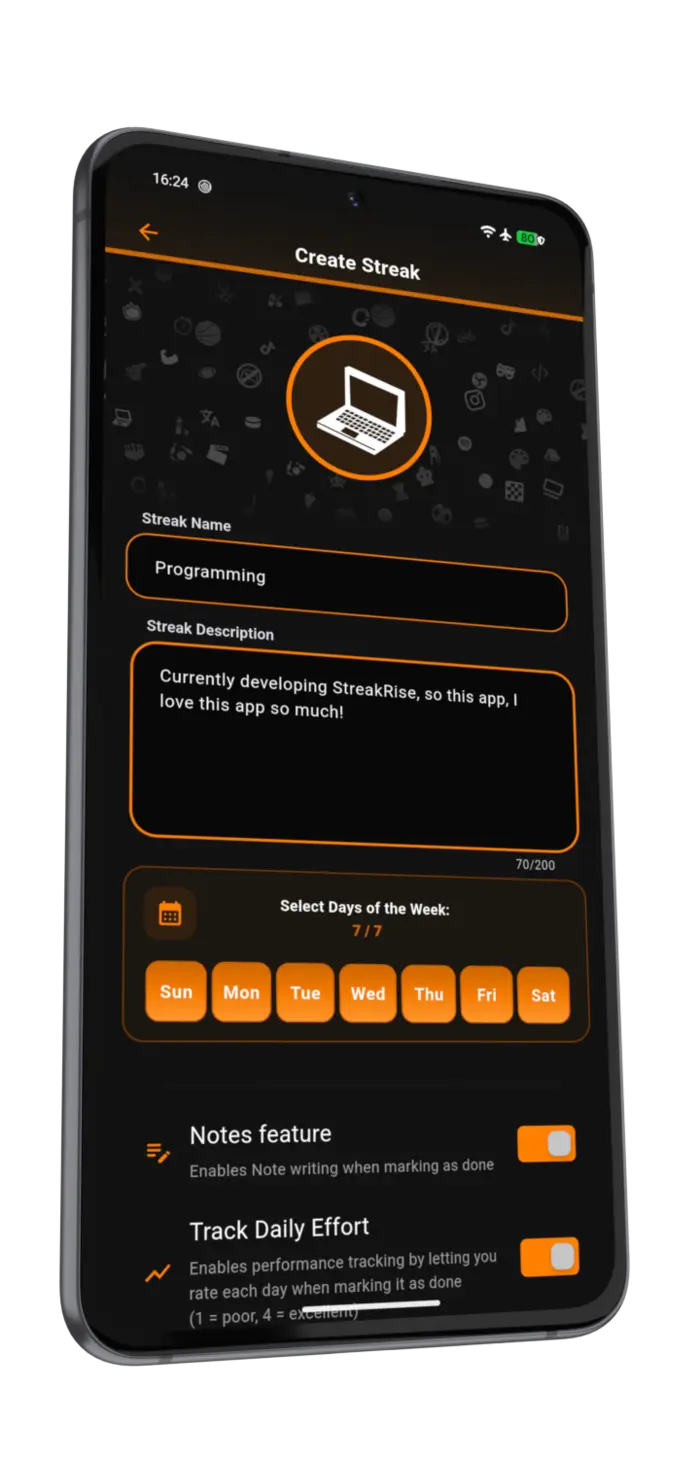
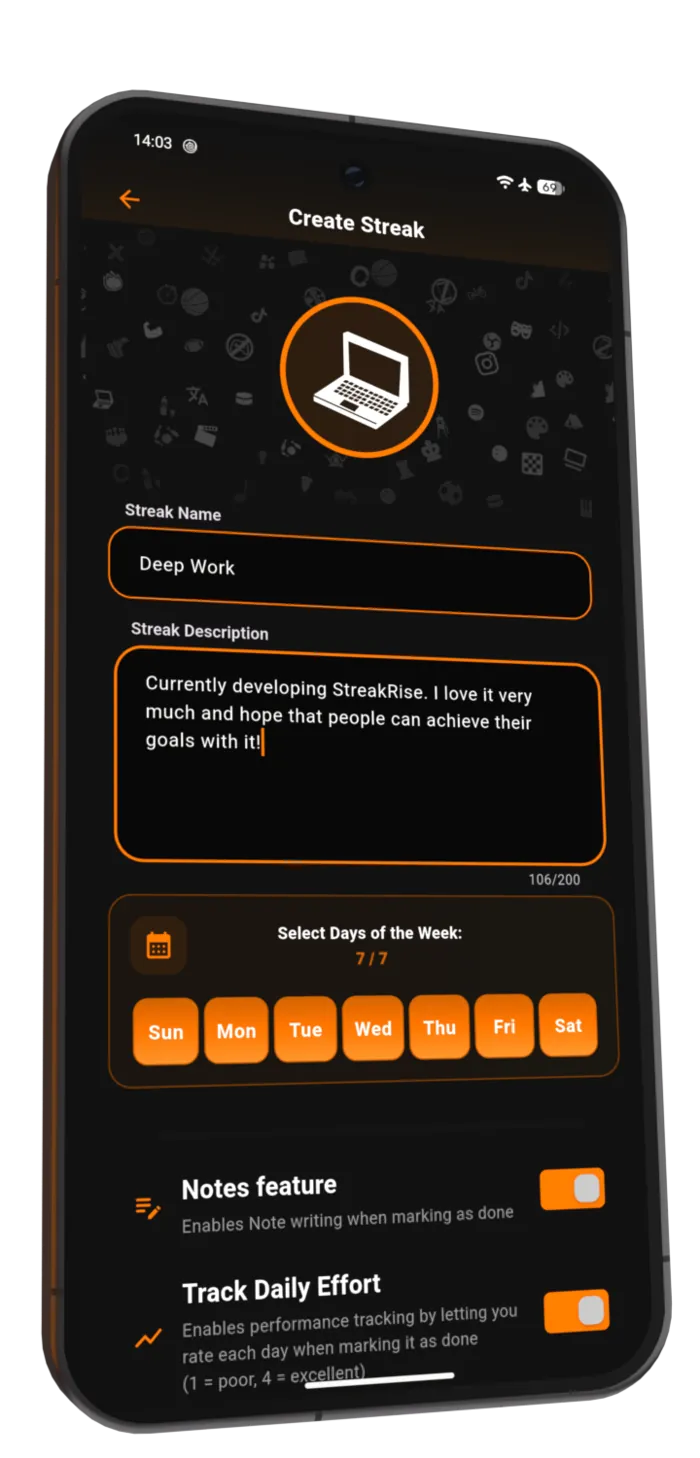
Added phone frame and updated images

diff --git a/streakrise-styles.css b/streakrise-styles.css
@@ -819,43 +819,102 @@ body {
     transform: scaleX(1);
 }
 
-.responsive-image-container {
-    text-align: center;
-    margin: 30px auto 0;
-    width: 100%;
-    opacity: 0;
-    transform: translateY(30px);
-    transition: opacity 0.9s ease-out, transform 0.9s ease-out;
-}
-
-.responsive-image-container.animate {
-    opacity: 1;
-    transform: translateY(0);
-}
-
-.responsive-image {
-    width: 100%;
-    max-width: 600px;
-    border-radius: 20px;
-    height: auto;
-    display: inline-block;
-    transition: transform 0.4s ease;
-}
-
-.responsive-image:hover,
-.themes-large:hover {
-    transform: scale(1.02);
-}
-
-.responsive-image-container video.responsive-image {
-    display: block;
-    width: auto;
-    height: auto;
-    max-width: 100%;
-    max-height: 60vh;
+.phone {
+    position: relative;
+    width: min(340px, calc(60vh * 0.48));
+    aspect-ratio: 720 / 1500;
     margin: 0 auto;
-    border-radius: 24px;
+    transition: transform 0.4s ease;
+    isolation: isolate;
 }
+
+.phone:hover { transform: scale(1.02); }
+
+.phone-screen {
+    position: absolute;
+    left: 3.89%;
+    top: 1.87%;
+    width: 91.67%;
+    height: 96.8%;
+    overflow: hidden;
+    border-radius: 12.7% / 5.8%;
+    background: #000;
+}
+
+.phone-screen video {
+    position: absolute;
+    top: 0;
+    left: 0;
+    width: 100%;
+    height: 101.5%; /* pushes the 16px black bar at the bottom of the source out of view */
+    object-fit: cover;
+    object-position: top;
+}
+
+.phone-frame {
+    position: absolute;
+    inset: 0;
+    width: 100%;
+    height: 100%;
+    pointer-events: none;
+    filter: drop-shadow(0 24px 40px rgba(0, 0, 0, 0.6)) brightness(1.08);
+}
+.phone::before {
+    content: "";
+    position: absolute;
+    inset: -2% -45%;
+    z-index: -1;
+    background: radial-gradient(closest-side, rgba(255, 122, 0, 0.5) 0%, rgba(255, 122, 0, 0.3) 45%, transparent 100%);
+    filter: blur(20px);
+    pointer-events: none;
+}
+.glow-left {
+    position: relative;
+    isolation: isolate;
+}
+
+.glow-left::before {
+    content: "";
+    position: absolute;
+    top: -25%;
+    bottom: -25%;
+    left: 50%;
+    width: 100vw;
+    transform: translateX(-50%);
+    z-index: -1;
+    pointer-events: none;
+    background: radial-gradient(ellipse 70% 50% at 0% 50%,
+        rgba(255, 122, 0, 0.22) 0%,
+        rgba(255, 122, 0, 0.10) 40%,
+        transparent 100%);
+}
+
+@media (max-width: 768px) {
+    .glow-left::before { display: none; }
+
+    .glow-left .feature-image {
+        position: relative;
+        isolation: isolate;
+    }
+
+    .glow-left .feature-image::before {
+        content: "";
+        position: absolute;
+        top: -30%;
+        bottom: -30%;
+        left: 50%;
+        width: 100vw;
+        transform: translateX(-50%);
+        z-index: -1;
+        pointer-events: none;
+        background: radial-gradient(ellipse 70% 50% at 0% 50%,
+            rgba(255, 122, 0, 0.22) 0%,
+            rgba(255, 122, 0, 0.10) 40%,
+            transparent 100%);
+    }
+}
+
+.themes-large:hover { transform: scale(1.02); }
 
 .themes-large {
     max-width: 1100px;

diff --git a/index.html b/index.html
@@ -178,7 +178,7 @@
                 <p class="hero-note">Free · No account needed · Made by one indie developer</p>
             </div>
             <div class="hero-image">
-                <img src="/assets/screens/first_photo.webp" width="800" height="1002"
+                <img src="/assets/screens/first_photo2.webp" width="800" height="1002"
                     alt="StreakRise habit tracker app screen" class="phone-mockup" fetchpriority="high">
             </div>
         </section>
@@ -242,13 +242,18 @@
             <p class="section-description scroll-animate">Mark it done, rate your day, and watch your counter climb.
                 Smooth
                 animations and thoughtful details make you actually want to come back tomorrow.</p>
-            <div class="responsive-image-container scroll-animate">
-                <video class="responsive-image" data-lazy loop muted playsinline preload="metadata"
-                    aria-label="StreakRise completion animation with mascot and counter">
-                    <source src="/assets/screens/video/completion.webm" type="video/webm">
-                    <source src="/assets/screens/video/completion.mp4" type="video/mp4">
-                </video>
-            </div>
+           <div class="responsive-image-container scroll-animate">
+    <div class="phone">
+        <div class="phone-screen">
+            <video data-lazy loop muted playsinline preload="metadata"
+                aria-label="StreakRise completion animation with mascot and counter">
+                <source src="/assets/screens/video/completion.webm" type="video/webm">
+                <source src="/assets/screens/video/completion.mp4" type="video/mp4">
+            </video>
+        </div>
+        <img class="phone-frame" src="/assets/screens/video/phone_frame.webp" alt="" width="720" height="1500">
+    </div>
+</div>
         </section>
         <div class="divider scroll-animate"></div>
 
